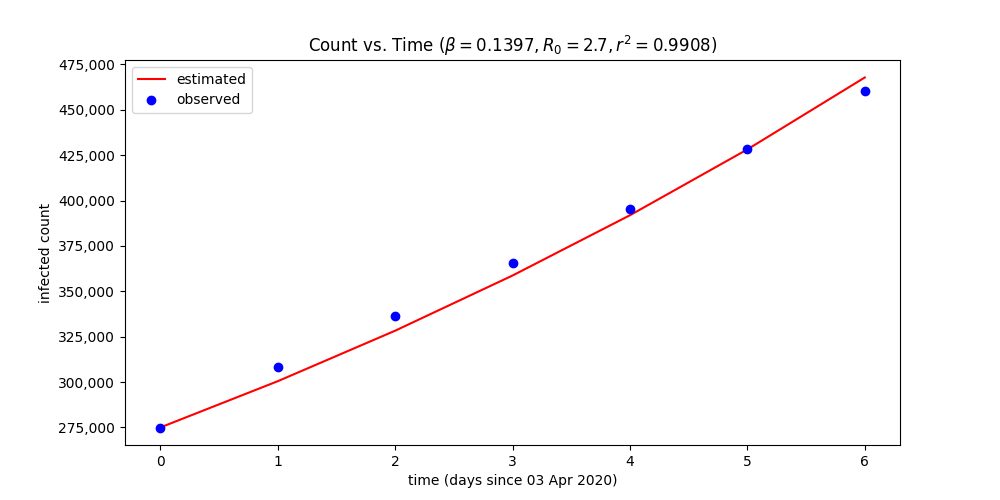
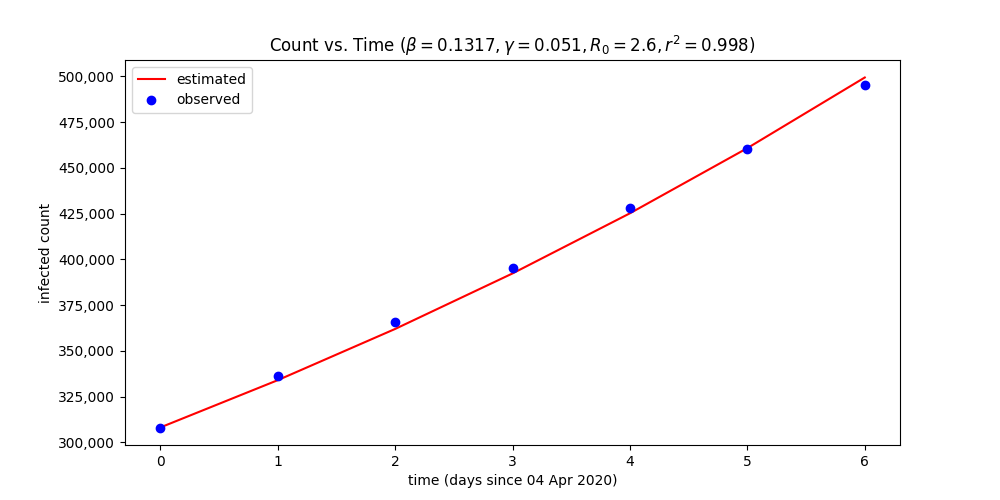
Adjust projection data labels and add gamma parameter value

diff --git a/model.py b/model.py
@@ -39,6 +39,7 @@ def main():
 
     # Input parameters
     recovery_rate = 1 / 19.6
+    # recovery_rate = 1 / 7
 
     # Solver
     estimated_infection_rate = solver(
@@ -112,8 +113,9 @@ def solver(func, population, initial, observed_infected, recovery_rate, start_da
     plt.legend(loc='best')
     plt.xlabel('time (days since {})'.format(start_date.strftime('%d %b %Y')))
     plt.ylabel('infected count')
-    plt.title(r'Count vs. Time $(\beta={}, R_0={}, r^2={})$'.format(
-        round(estimated_infection_rate, 4), round(r0, 1), round(r_squared(observed_infected, infected), 4)
+    plt.title(r'Count vs. Time $(\beta={}, \gamma={}, R_0={}, r^2={})$'.format(
+        round(estimated_infection_rate, 4), round(recovery_rate, 4), round(r0, 1),
+        round(r_squared(observed_infected, infected), 4)
     ))
 
     ax = plt.gca()
@@ -137,6 +139,7 @@ def project(population, initial, days, infection_rate, recovery_rate, start_date
     susceptible = compartments[:, 0]
     infected = compartments[:, 1]
     recovered = compartments[:, 2]
+    r0 = infection_rate / recovery_rate
 
     # Plot data
     fig2 = plt.figure()
@@ -149,17 +152,21 @@ def project(population, initial, days, infection_rate, recovery_rate, start_date
 
     # notable points
     plt.semilogy(t[-1], susceptible[-1], 'ko')
-    ax.annotate('{:,}'.format(int(round(susceptible[-1]))), (t[-1] - 20, susceptible[-1] * 1.50), ha='center')
+    ax.annotate('{:,}'.format(
+        int(round(susceptible[-1]))), (t[-1] - 20, 10 ** (np.log10(susceptible[-1]) + 0.15)), ha='center'
+    )
     t_max_infected = np.where(infected == max(infected))[0][0]
     plt.semilogy(t_max_infected, max(infected), 'ro')
-    ax.annotate('{:,}'.format(int(round(max(infected)))), (t_max_infected + 20, 1e8))
+    ax.annotate('{:,}'.format(int(round(max(infected)))), (t_max_infected + 20, 10 ** (np.log10(max(infected)) + 0.05)))
     plt.semilogy(t[-1], infected[-1], 'ro')
-    ax.annotate('{:,}'.format(int(round(infected[-1]))), (t[-1], 30), ha='center')
+    ax.annotate('{:,}'.format(int(round(infected[-1]))), (t[-1], 10 ** (np.log10(infected[-1]) + 0.2)), ha='center')
 
     plt.legend(loc='best')
     plt.xlabel('time (days since {})'.format(start_date.strftime('%d %b %Y')))
     plt.ylabel('count')
-    plt.title('Count vs. Time')
+    plt.title(r'Count vs. Time $(\beta={}, \gamma={}, R_0={})$'.format(
+        round(infection_rate, 4), round(recovery_rate, 4), round(r0, 1)
+    ))
 
     ax.get_yaxis().set_major_formatter(plt.FuncFormatter(lambda x, loc: "{:,}".format(int(x))))
     plt.savefig('projection.png')
